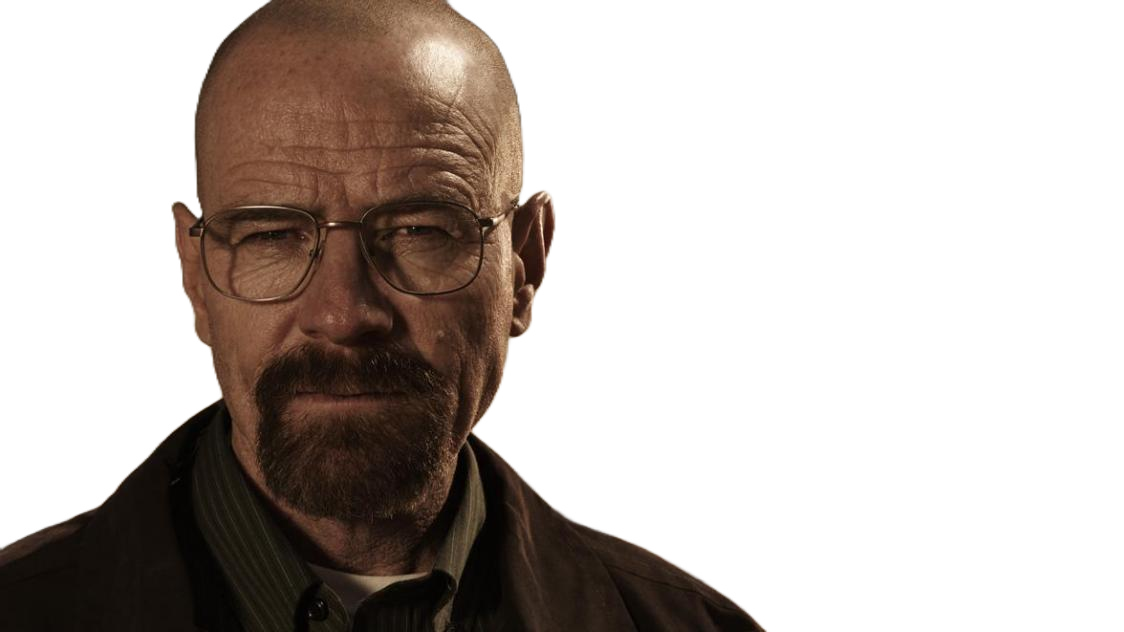
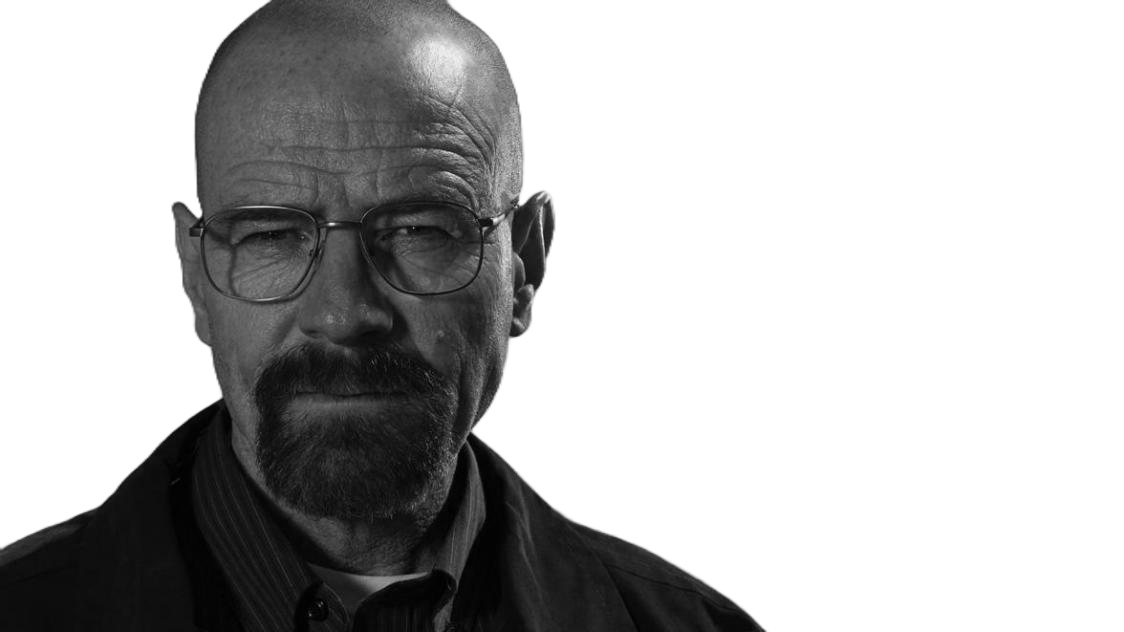
Saturation photo

diff --git a/myproject-2/src/component/Card.jsx b/myproject-2/src/component/Card.jsx
@@ -9,12 +9,12 @@ export default function Card({ data }) {
   return (
     <>
 
-<div className="snap-center shrink-0 w-full h-screen bg-bgw bg-cover bg-no-repeat  relative grid grid-cols-2 overflow-hidden px-28">
+<div className="m-4 snap-center shrink-0 w-full h-screen bg-bgw bg-cover bg-no-repeat  relative grid grid-cols-2 overflow-hidden px-28">
   <div className="w-full">
     {/* <img src="./src/assets/wwhite.png" alt="" className="h-screen w-full saturate-0 z-0"/> */}
   </div>
 
-  <div className="flex flex-col w-full justify-center gap-4">
+  <div className="flex flex-col w-full justify-center gap-4 ">
     <h1 className="font-title text-7xl ">{data.serie}</h1>
     <h2 className="font-txt text-4xl font-semibold">
       2008 | Catégorie d'âge : 16+ | 5 saisons | {data.genres}
